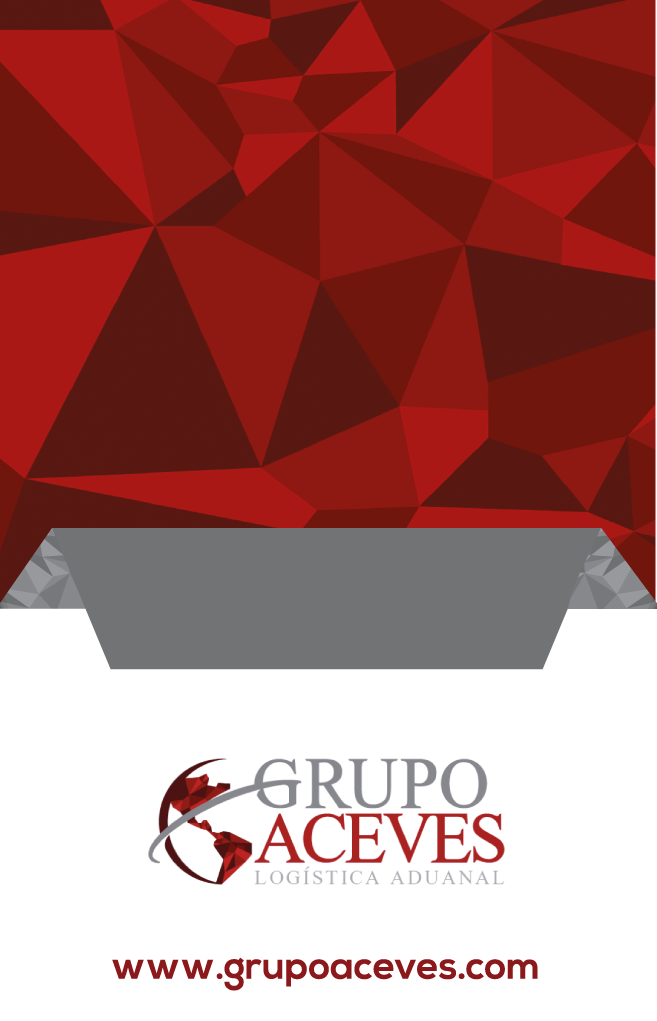
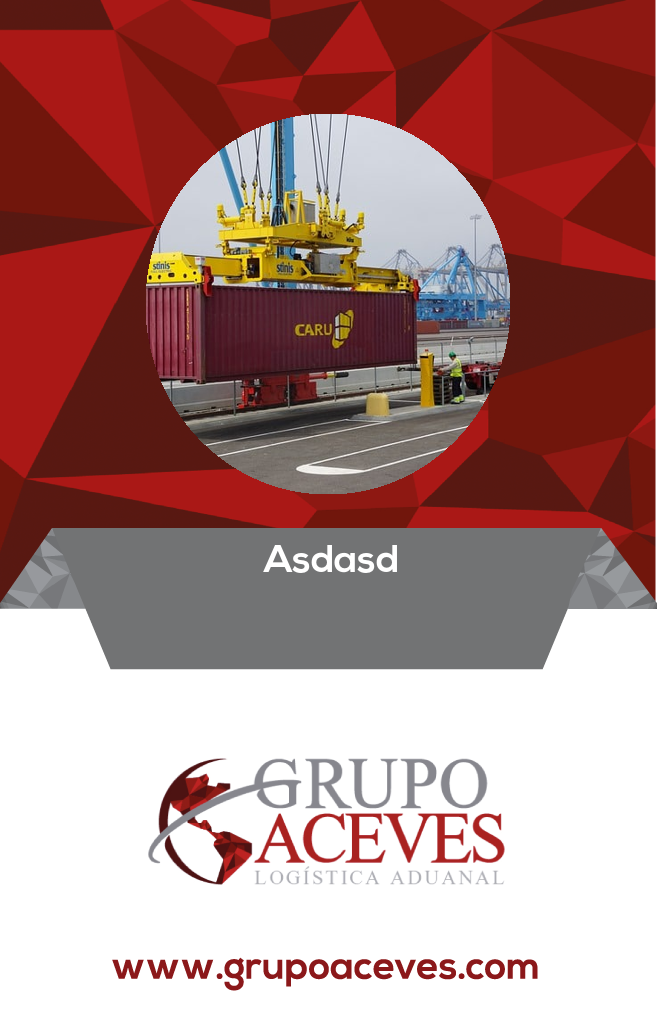
finished button and inputs behaivor

Changed region(s): [[0.2131, 0.0911, 0.7915, 0.4858], [0.3957, 0.5162, 0.6088, 0.5769]]

diff --git a/gui.py b/gui.py
@@ -49,15 +49,71 @@ root = tk.Tk()
 root.geometry("800x600")
 
 
-#  Loading GAFETE 'Empleado Picture' File & Resizing/Cropping it -------------------------------------------------------------------------
+# ----------------------------------------------------------------------------------------------------------------
+# FIRTS NAME INPUT FIELD-------------------------------------------------
 
-# Loading Picture File
-# picture = Image.open(
-#     select_picture)
+first_name_field = tk.Entry(root)
+first_name_field.grid(row=0, column=2, padx=10, pady=10)
+
+# Storing Input entry-------------------------------------------
+
+name_font = changing_font(38)
 
 
+def store_firstname_text(event):
+    empleado_firstname = ''
+    # get the text from the input field
+    first_name_text = first_name_field.get()
+    first_name_input = first_name_text
+    print(first_name_input)
+    empleado_firstname = first_name_input
+    # Draw 'First Name' text in image
+    w, h = textbox(empleado_firstname, 38)
+    draw_name.text(((W-w)/2, ((H-h)/2)+48), empleado_firstname.title(),
+                   font=name_font, fill='white')
+
+
+# Store field user input with a button
+add_firstname_button = tk.Button(
+    root, text="Agregar",)
+
+add_firstname_button.grid(row=0, column=3)
+add_firstname_button.config(
+    foreground='Black',  disabledforeground='Black', background='light gray', state='disable')
+# Bind the field user input storing to keys and click
+add_firstname_button.bind("<Button-1>",  store_firstname_text)
+first_name_field.bind("<Button-1>", store_firstname_text)
+first_name_field.bind("<Return>", store_firstname_text)
+first_name_field.bind("<Tab>", store_firstname_text)
+
+# ----------------------------------------------------------------------------------------------------------------
+# LAST NAME INPUT FIELD-----------------------------------------------
+last_name_field = tk.Entry(root)
+last_name_field.grid(row=1, column=2, padx=10, pady=10)
+# Storing Input entry-------------------------------------------
+
+
+def store_lastname_text(event):
+    # get the text from the input field
+    last_name_text = last_name_field.get()
+    last_name_input = last_name_text
+    print(last_name_input)
+
+
+# Store field user input with a button
+add_lastname_button = tk.Button(root, text="Agregar",
+                                )
+add_lastname_button.grid(row=1, column=3)
+# Bind the field user input storing to keys and click
+add_lastname_button.bind("<Button-1>",  store_lastname_text)
+last_name_field.bind("<Button-1>", store_lastname_text)
+last_name_field.bind("<Return>", store_lastname_text)
+last_name_field.bind("<Tab>", store_lastname_text)
+
+
+# ----------------------------------------------------------------------------------------------------------------
 # --------------------------------------------------------------------------------------
-# SELECTING PICTURE FROM COMPUTER BUTTON-------------------------------------------------
+#  Loading GAFETE 'Empleado Picture' File & Resizing/Cropping it -----------------------
 
 
 def select_picture():
@@ -75,37 +131,15 @@ def select_picture():
     cords = ((W-w)/2, (H-h)/2-206)
     cords = tuple(round(x) for x in cords)
     gafete_front.paste(picture_output, cords, picture_output)
+    print(filename)
+    gafete_front.save('Frente.png')
 
 
-gafete_front.save('Frente.png')
+# SELECTING PICTURE FROM COMPUTER BUTTON-------------------------------------------------
 select_picture_button = tk.Button(
     root, text="Select Picture", command=select_picture)
-select_picture_button.grid(row=0, column=2, padx=10, pady=10)
-
-# FIRTS NAME INPUT FIELD-------------------------------------------------
-
-first_name_field = tk.Entry(root)
-first_name_field.grid(row=1, column=2, padx=10, pady=10)
-
-# Storing Input entry-------------------------------------------
-
-
-def store_text(event):
-    # get the text from the input field
-    name_text = first_name_field.get()
-    name_input = name_text
-    print(name_input)
-
-
-first_name_field.bind("<Return>", store_text)
-first_name_field.bind("<Tab>", store_text)
-
-# LAST NAME INPUT FIELD-----------------------------------------------
-last_name_field = tk.Entry(root)
-last_name_field.grid(row=2, column=2, padx=10, pady=10)
-
-
-# -------------------------------------------------------------
+select_picture_button.grid(row=2, column=2, padx=10, pady=10)
+# --------------------------------------------------------------------------------------
 
 
 root.mainloop()
